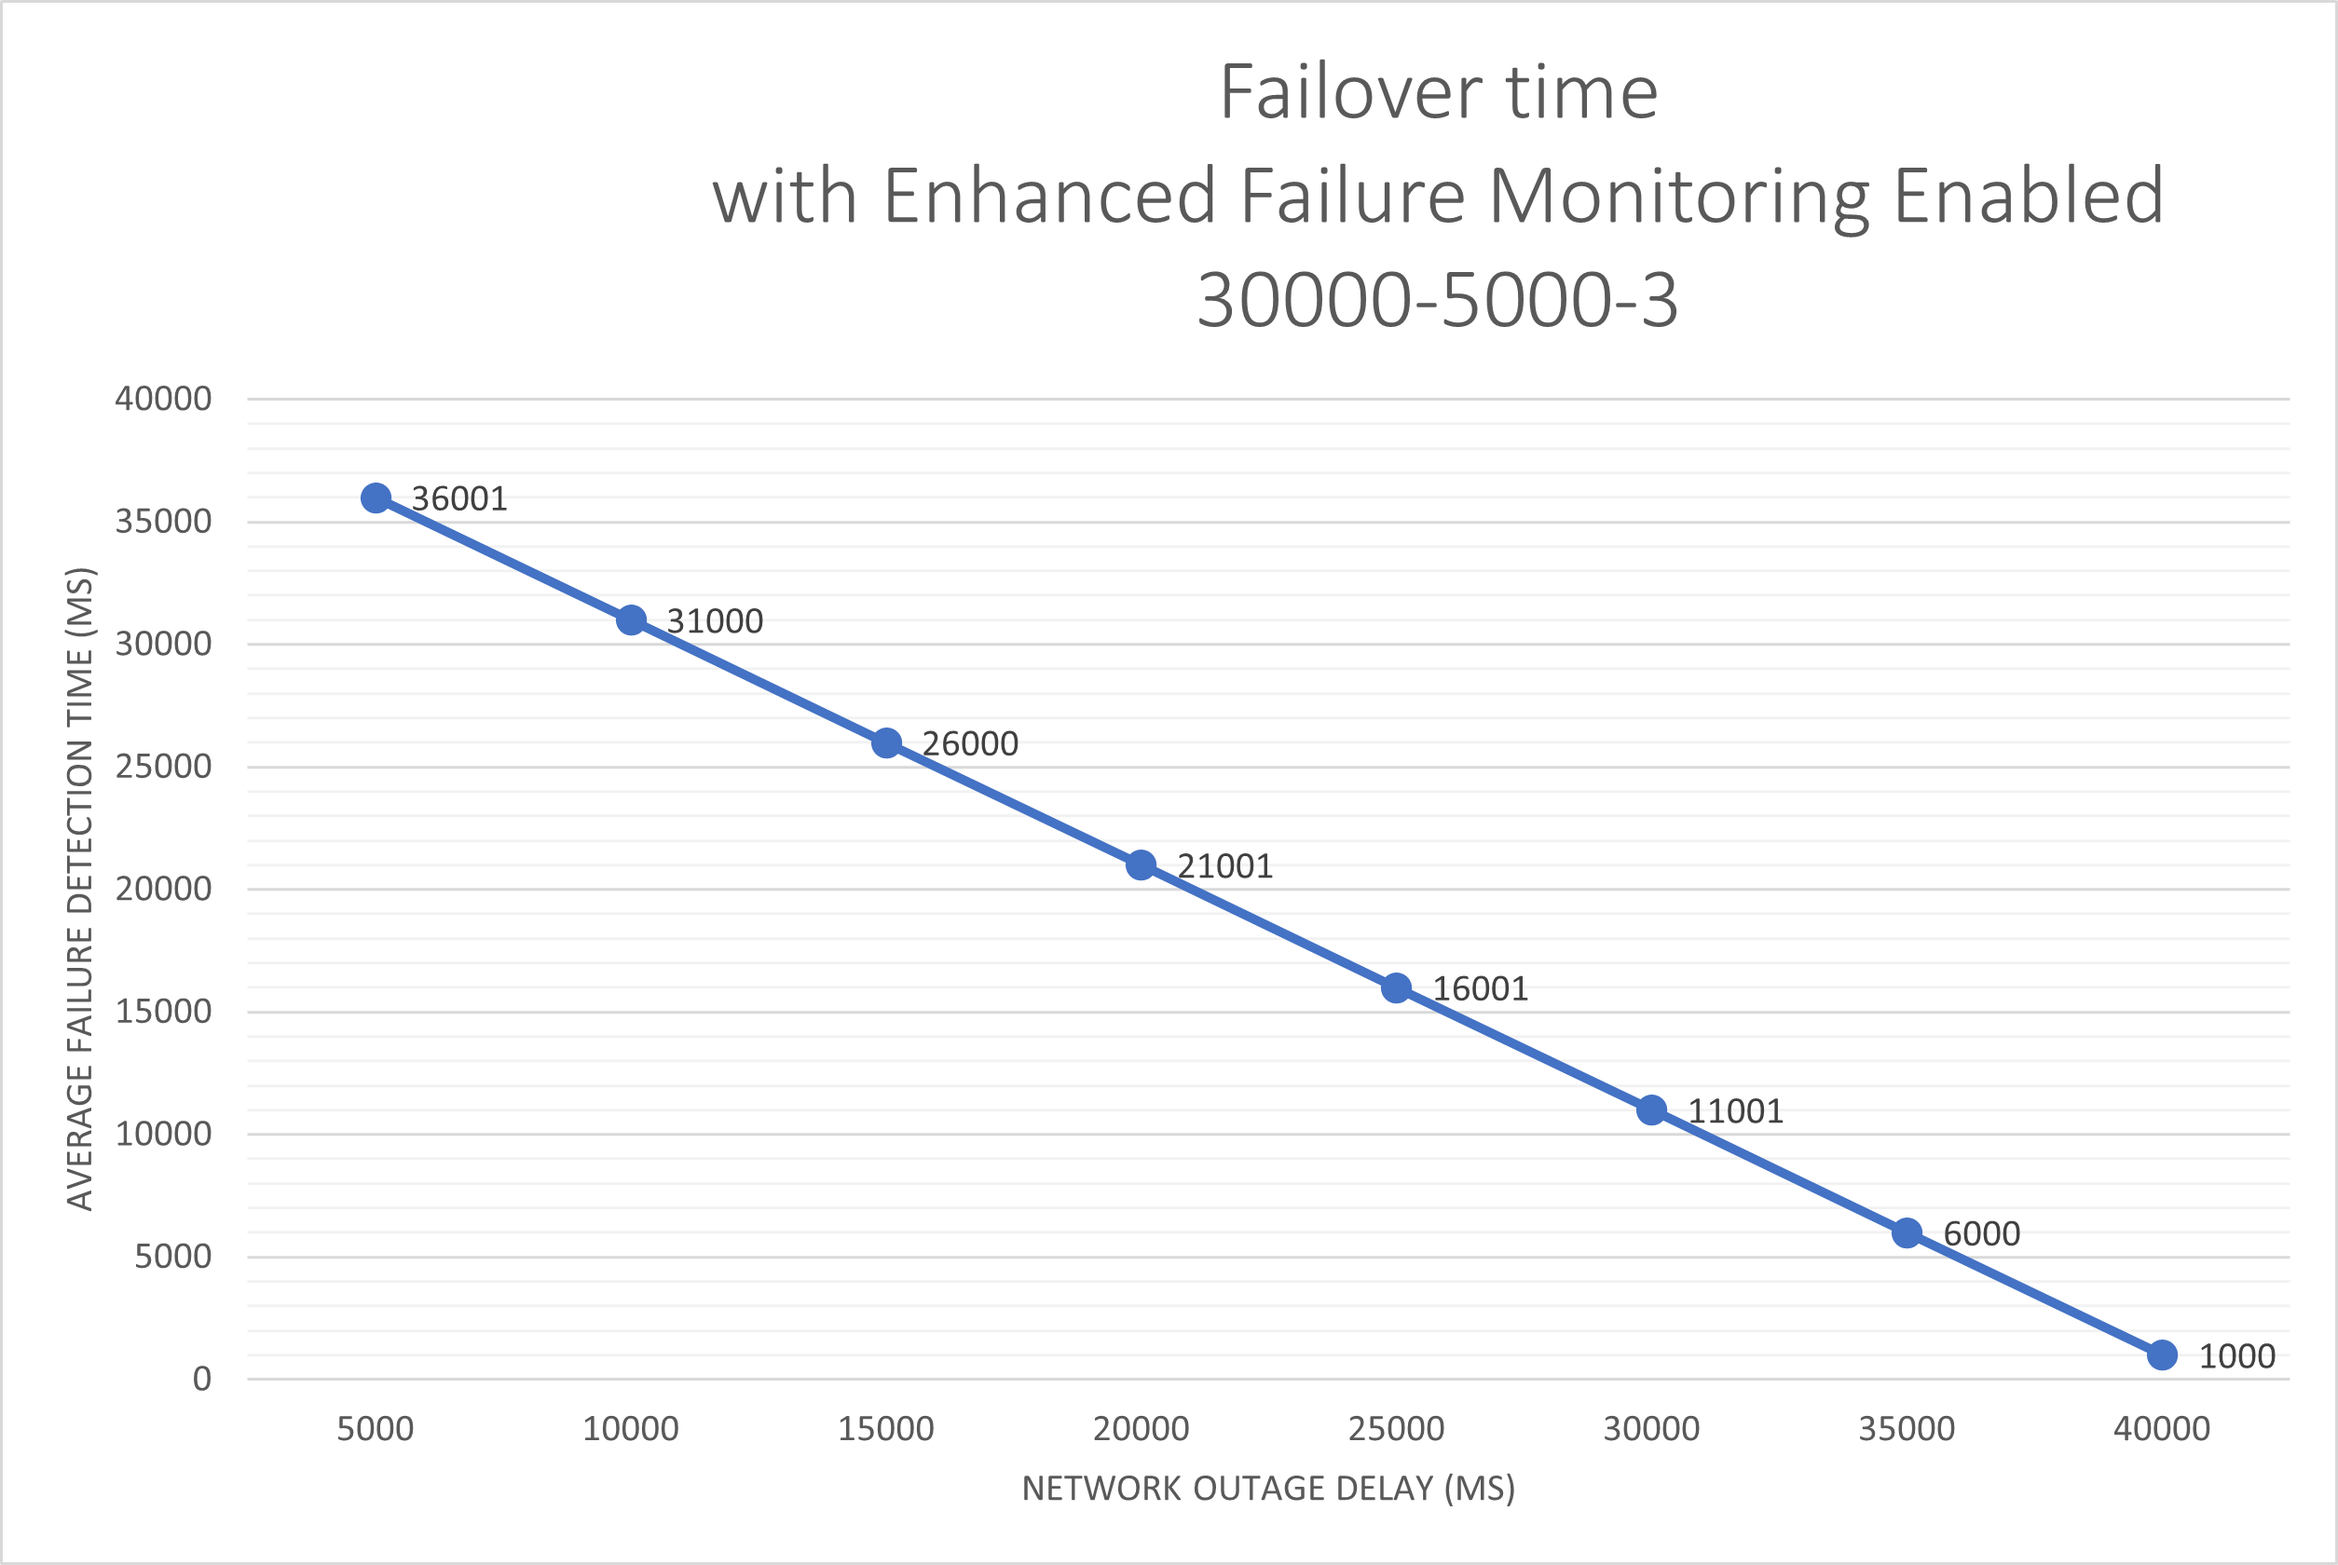
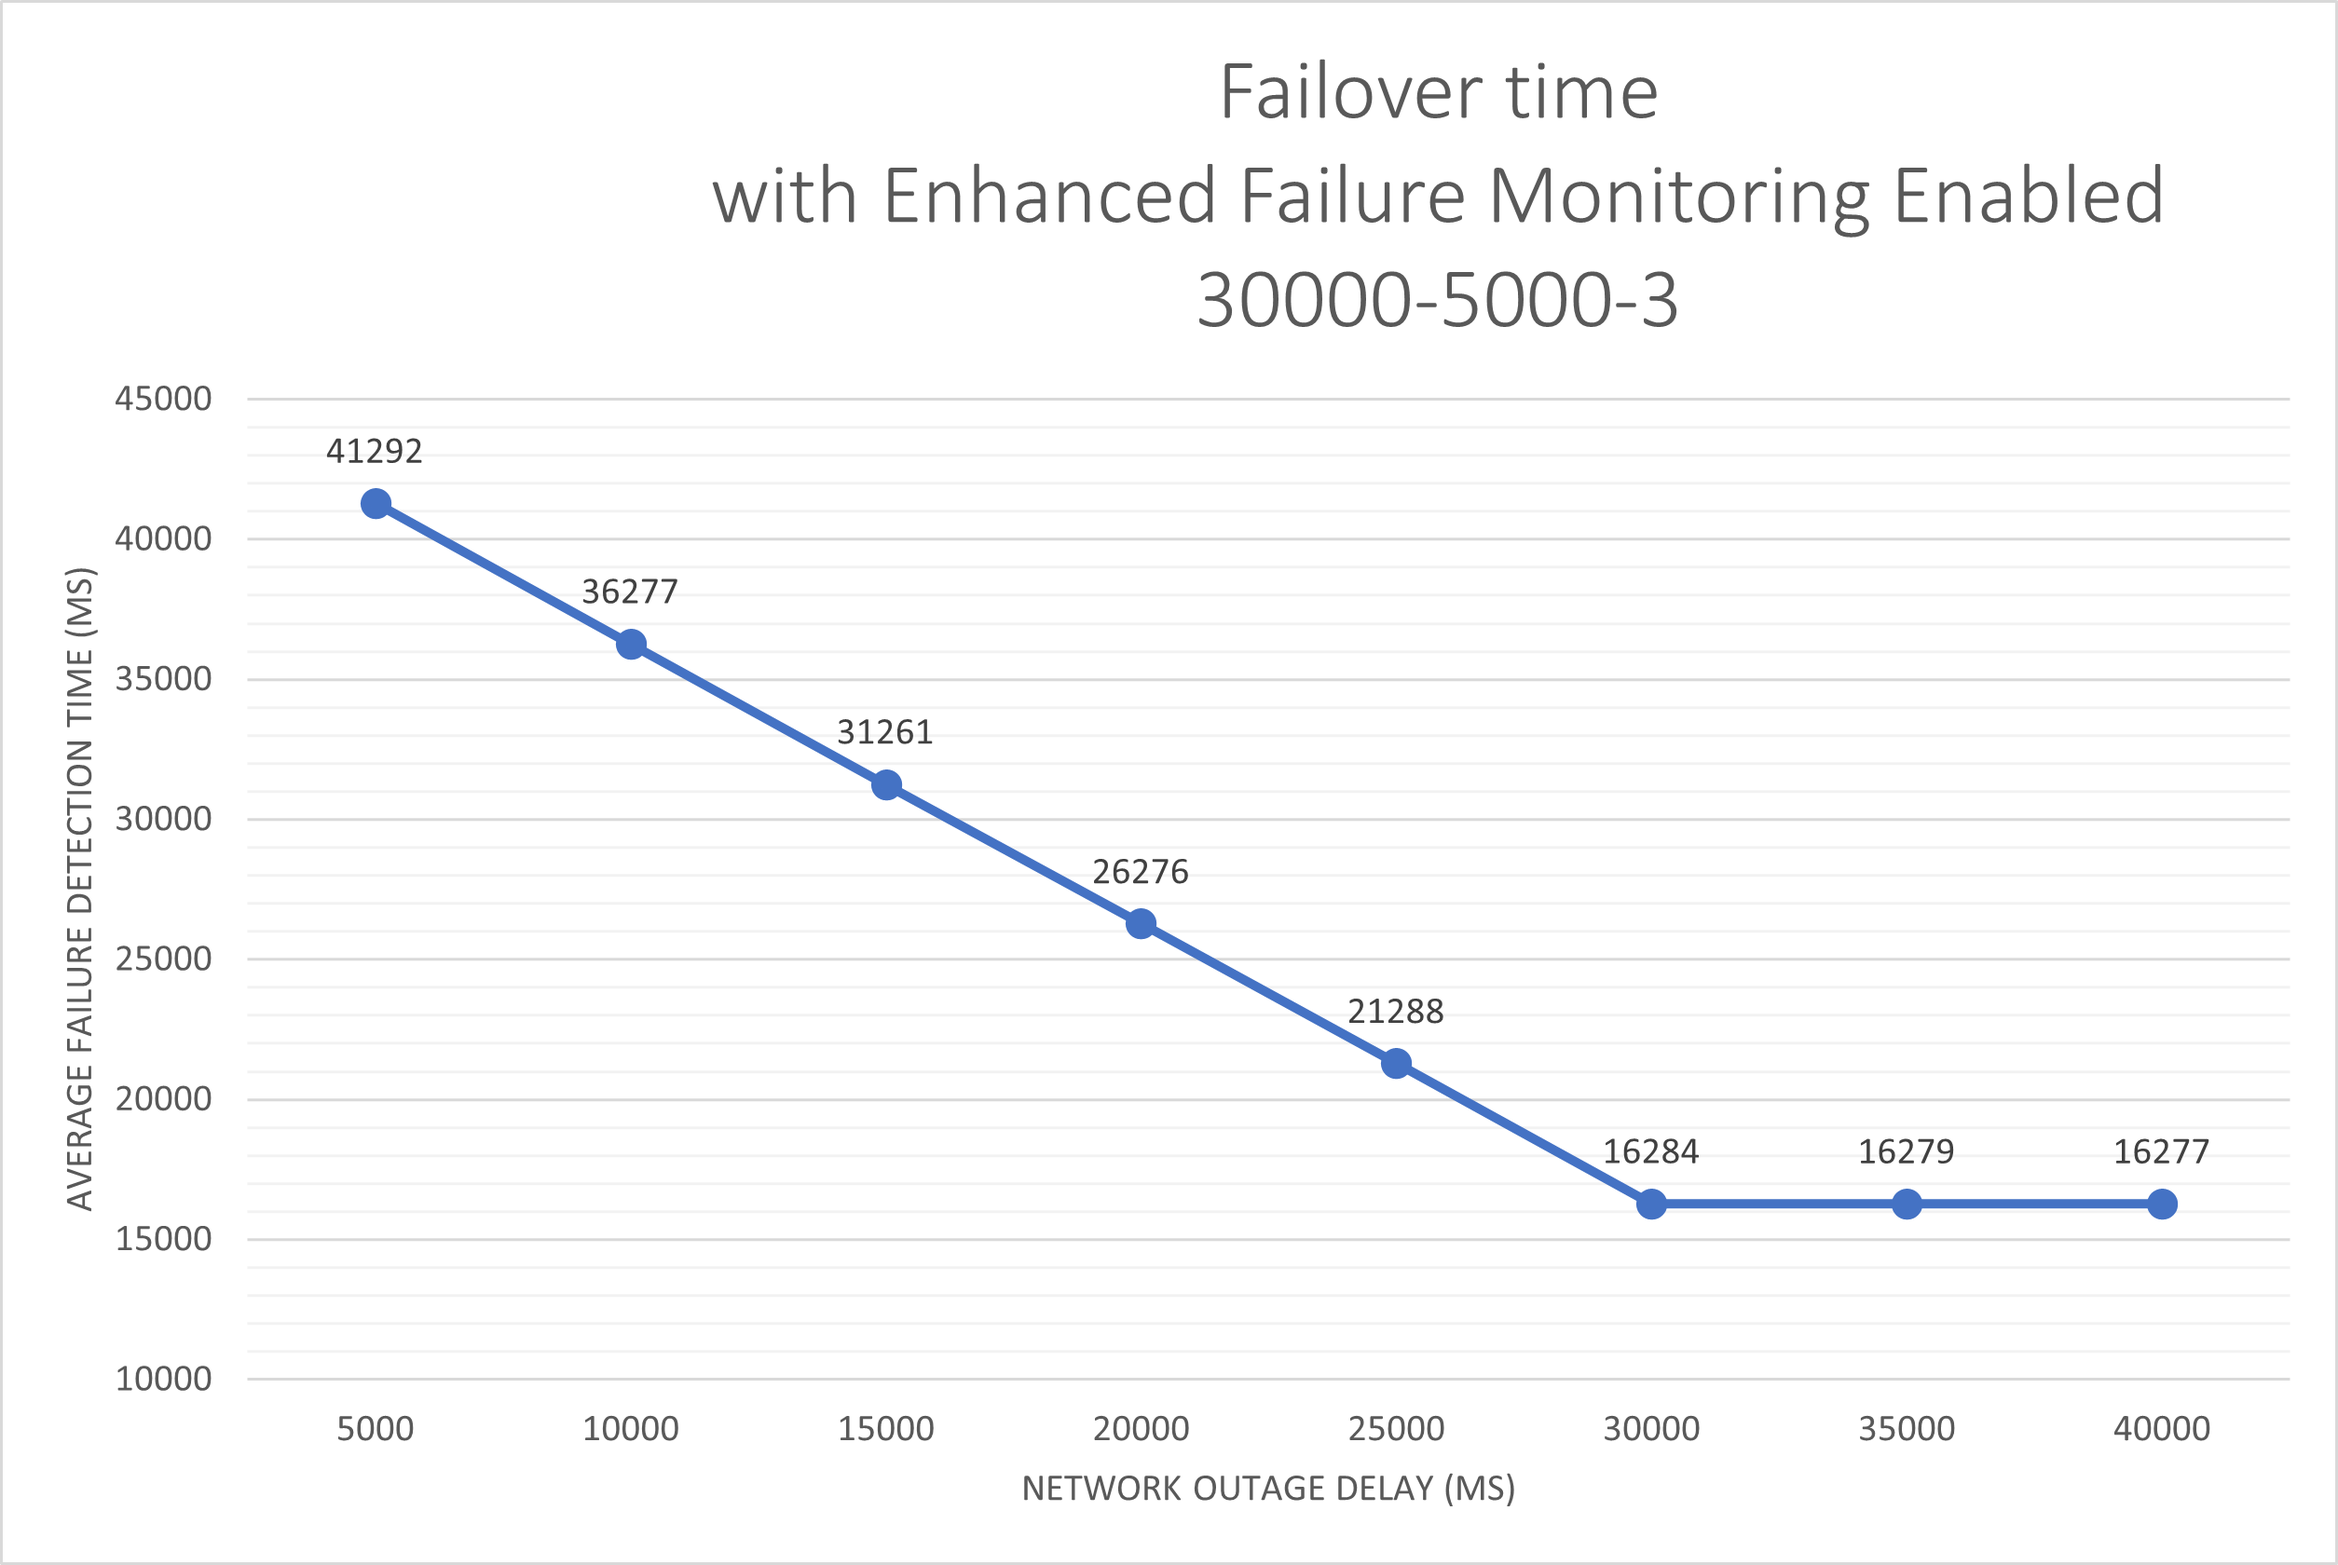
chore: update performance results

diff --git a/docs/development-guide/PerformanceResults.md b/docs/development-guide/PerformanceResults.md
@@ -43,16 +43,16 @@
 
 ## Performance Tests
 
-### Failover Performance with Different Socket Timeout Configuration
+### Failover Performance with 30 Seconds Socket Timeout Configuration
 
 | SocketTimeout | NetworkOutageDelayMillis | MinFailureDetectionTimeMillis | MaxFailureDetectionTimeMillis | AvgFailureDetectionTimeMillis |
 |---------------|--------------------------|-------------------------------|-------------------------------|-------------------------------|
-| 30            | 5000                     | 65021                         | 65029                         | 65025                         |
-| 30            | 10000                    | 60018                         | 60029                         | 60025                         |
-| 30            | 15000                    | 55023                         | 55028                         | 55027                         |
-| 30            | 25000                    | 45023                         | 45027                         | 45026                         |
-| 30            | 20000                    | 50026                         | 50029                         | 50027                         |
-| 30            | 30000                    | 40024                         | 40028                         | 40027                         |
+| 30            | 5000                     | 25181                         | 25302                         | 25244                         |
+| 30            | 10000                    | 20164                         | 20279                         | 20191                         |
+| 30            | 15000                    | 15176                         | 15186                         | 15180                         |
+| 30            | 20000                    | 10173                         | 10213                         | 10190                         |
+| 30            | 25000                    | 5176                          | 5192                          | 5184                          |
+| 30            | 30000                    | 166                           | 189                           | 176                           |
 
 ### Enhanced Failure Monitoring Performance with Different Failure Detection Configuration
 
@@ -83,21 +83,23 @@
 
 | FailureDetectionGraceTime | FailureDetectionInterval | FailureDetectionCount | NetworkOutageDelayMillis | MinFailureDetectionTimeMillis | MaxFailureDetectionTimeMillis | AvgFailureDetectionTimeMillis |
 |---------------------------|--------------------------|-----------------------|--------------------------|-------------------------------|-------------------------------|-------------------------------|
-| 30000                     | 5000                     | 3                     | 5000                     | 36000                         | 36002                         | 36001                         |
-| 30000                     | 5000                     | 3                     | 10000                    | 31000                         | 31001                         | 31000                         |
-| 30000                     | 5000                     | 3                     | 15000                    | 26000                         | 26001                         | 26000                         |
-| 30000                     | 5000                     | 3                     | 20000                    | 21000                         | 21002                         | 21001                         |
-| 30000                     | 5000                     | 3                     | 25000                    | 15999                         | 16001                         | 16001                         |
-| 30000                     | 5000                     | 3                     | 30000                    | 11000                         | 11001                         | 11001                         |
-| 30000                     | 5000                     | 3                     | 35000                    | 5996                          | 6005                          | 6000                          |
-| 30000                     | 5000                     | 3                     | 40000                    | 1000                          | 1001                          | 1000                          |
-| 6000                      | 1000                     | 1                     | 1000                     | 39996                         | 40001                         | 39999                         |
-| 6000                      | 1000                     | 1                     | 2000                     | 38999                         | 39001                         | 39000                         |
-| 6000                      | 1000                     | 1                     | 3000                     | 37999                         | 38001                         | 38000                         |
-| 6000                      | 1000                     | 1                     | 4000                     | 36999                         | 37001                         | 37000                         |
-| 6000                      | 1000                     | 1                     | 5000                     | 36000                         | 36001                         | 36001                         |
-| 6000                      | 1000                     | 1                     | 6000                     | 35000                         | 35002                         | 35001                         |
-| 6000                      | 1000                     | 1                     | 7000                     | 34000                         | 34001                         | 34000                         |
-| 6000                      | 1000                     | 1                     | 8000                     | 32999                         | 33002                         | 33000                         |
-| 6000                      | 1000                     | 1                     | 9000                     | 32000                         | 32002                         | 32001                         |
-| 6000                      | 1000                     | 1                     | 10000                    | 31001                         | 31001                         | 31001                         |
+| 30000                     | 5000                     | 3                     | 5000                     | 41280                         | 41315                         | 41292                         |
+| 30000                     | 5000                     | 3                     | 10000                    | 36269                         | 36283                         | 36277                         |
+| 30000                     | 5000                     | 3                     | 15000                    | 31200                         | 31292                         | 31261                         |
+| 30000                     | 5000                     | 3                     | 20000                    | 26264                         | 26288                         | 26276                         |
+| 30000                     | 5000                     | 3                     | 25000                    | 21273                         | 21311                         | 21288                         |
+| 30000                     | 5000                     | 3                     | 30000                    | 16267                         | 16316                         | 16284                         |
+| 30000                     | 5000                     | 3                     | 35000                    | 16273                         | 16284                         | 16279                         |
+| 30000                     | 5000                     | 3                     | 40000                    | 16265                         | 16287                         | 16277                         |
+| 30000                     | 5000                     | 3                     | 50000                    | 16275                         | 16312                         | 16284                         |
+| 30000                     | 5000                     | 3                     | 60000                    | 16272                         | 16293                         | 16282                         |
+| 6000                      | 1000                     | 1                     | 1000                     | 5261                          | 5301                          | 5276                          |
+| 6000                      | 1000                     | 1                     | 2000                     | 4259                          | 4275                          | 4267                          |
+| 6000                      | 1000                     | 1                     | 3000                     | 3263                          | 3280                          | 3271                          |
+| 6000                      | 1000                     | 1                     | 4000                     | 2256                          | 2282                          | 2266                          |
+| 6000                      | 1000                     | 1                     | 5000                     | 1256                          | 1275                          | 1263                          |
+| 6000                      | 1000                     | 1                     | 6000                     | 1168                          | 1273                          | 1248                          |
+| 6000                      | 1000                     | 1                     | 7000                     | 1259                          | 1277                          | 1267                          |
+| 6000                      | 1000                     | 1                     | 8000                     | 1263                          | 1289                          | 1272                          |
+| 6000                      | 1000                     | 1                     | 9000                     | 1264                          | 1281                          | 1270                          |
+| 6000                      | 1000                     | 1                     | 10000                    | 1265                          | 1287                          | 1277                          |
